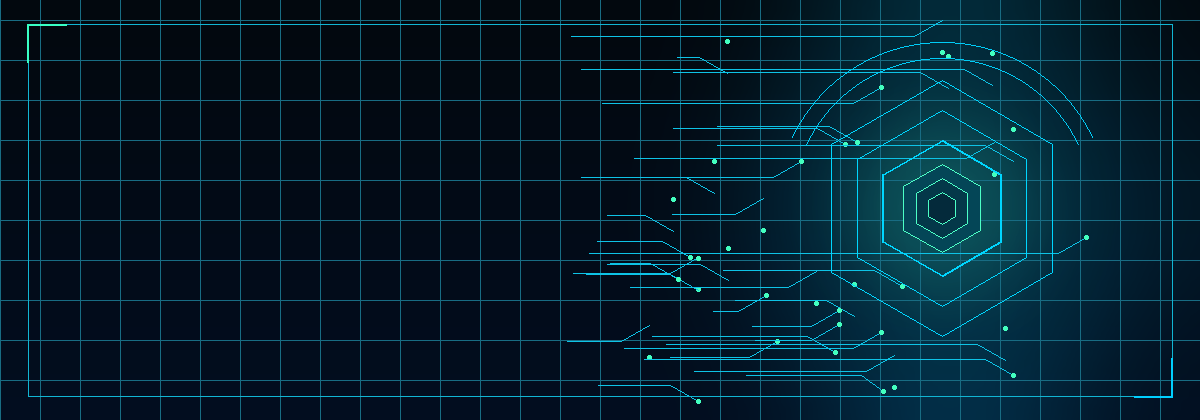
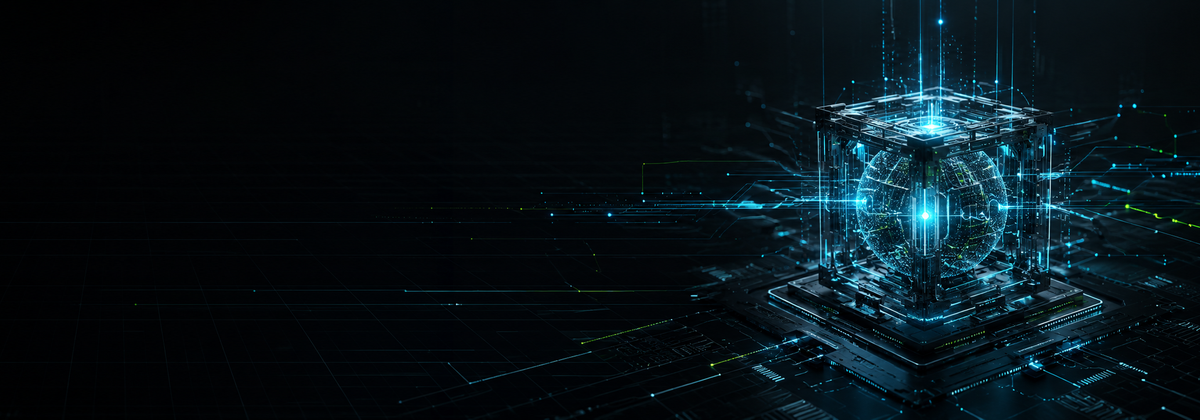
art: integrate generated AI Systems Lab hero

diff --git a/scripts/build_hero.py b/scripts/build_hero.py
@@ -4,15 +4,16 @@ import math
 import random
 from pathlib import Path
 
-from PIL import Image, ImageDraw, ImageFilter, ImageFont
+from PIL import Image, ImageDraw, ImageFilter, ImageFont, ImageOps
 
 
 ROOT = Path(__file__).parents[1]
 ASSETS = ROOT / "assets"
 SOURCE = ASSETS / "ai-systems-lab-source.png"
+IMAGE2_SOURCE = ASSETS / "ai-systems-lab-image2-source.png"
 OUTPUT = ASSETS / "ai-systems-lab.gif"
 WIDTH, HEIGHT = 1200, 420
-CORE = (942, 208)
+CORE = (895, 208)
 FRAMES = 24
 
 
@@ -54,6 +55,17 @@ def glow_ellipse(
 
 
 def build_source() -> Image.Image:
+    if IMAGE2_SOURCE.exists():
+        with Image.open(IMAGE2_SOURCE) as generated:
+            image = ImageOps.fit(
+                generated.convert("RGB"),
+                (WIDTH, HEIGHT),
+                method=Image.Resampling.LANCZOS,
+                centering=(0.5, 0.5),
+            ).convert("RGBA")
+        image.convert("RGB").save(SOURCE, optimize=True)
+        return image
+
     rng = random.Random(20260714)
     image = Image.new("RGBA", (WIDTH, HEIGHT), (2, 7, 12, 255))
     draw = ImageDraw.Draw(image, "RGBA")
@@ -138,7 +150,7 @@ def overlay_identity(frame: Image.Image) -> None:
     draw.text((70, 250), "全栈 AI 工程 · 智能系统实验室", font=load_font(18, cjk=True), fill=muted)
     draw.ellipse((71, 315, 79, 323), fill=green)
     draw.text((91, 307), "SYSTEM ONLINE", font=load_font(14, mono=True), fill=green)
-    draw.text((245, 307), "SHANGHAI  /  2026", font=load_font(14, mono=True), fill=muted)
+    draw.text((245, 307), "LOCAL FIRST  /  2026", font=load_font(14, mono=True), fill=muted)
 
     draw.text((70, 363), "BUILDING SIGNALS FROM DATA TO EXPERIENCE", font=load_font(12, mono=True), fill=(86, 151, 164, 220))
     draw.text((1040, 363), "02:AI", font=load_font(12, mono=True), fill=(74, 229, 255, 210))
